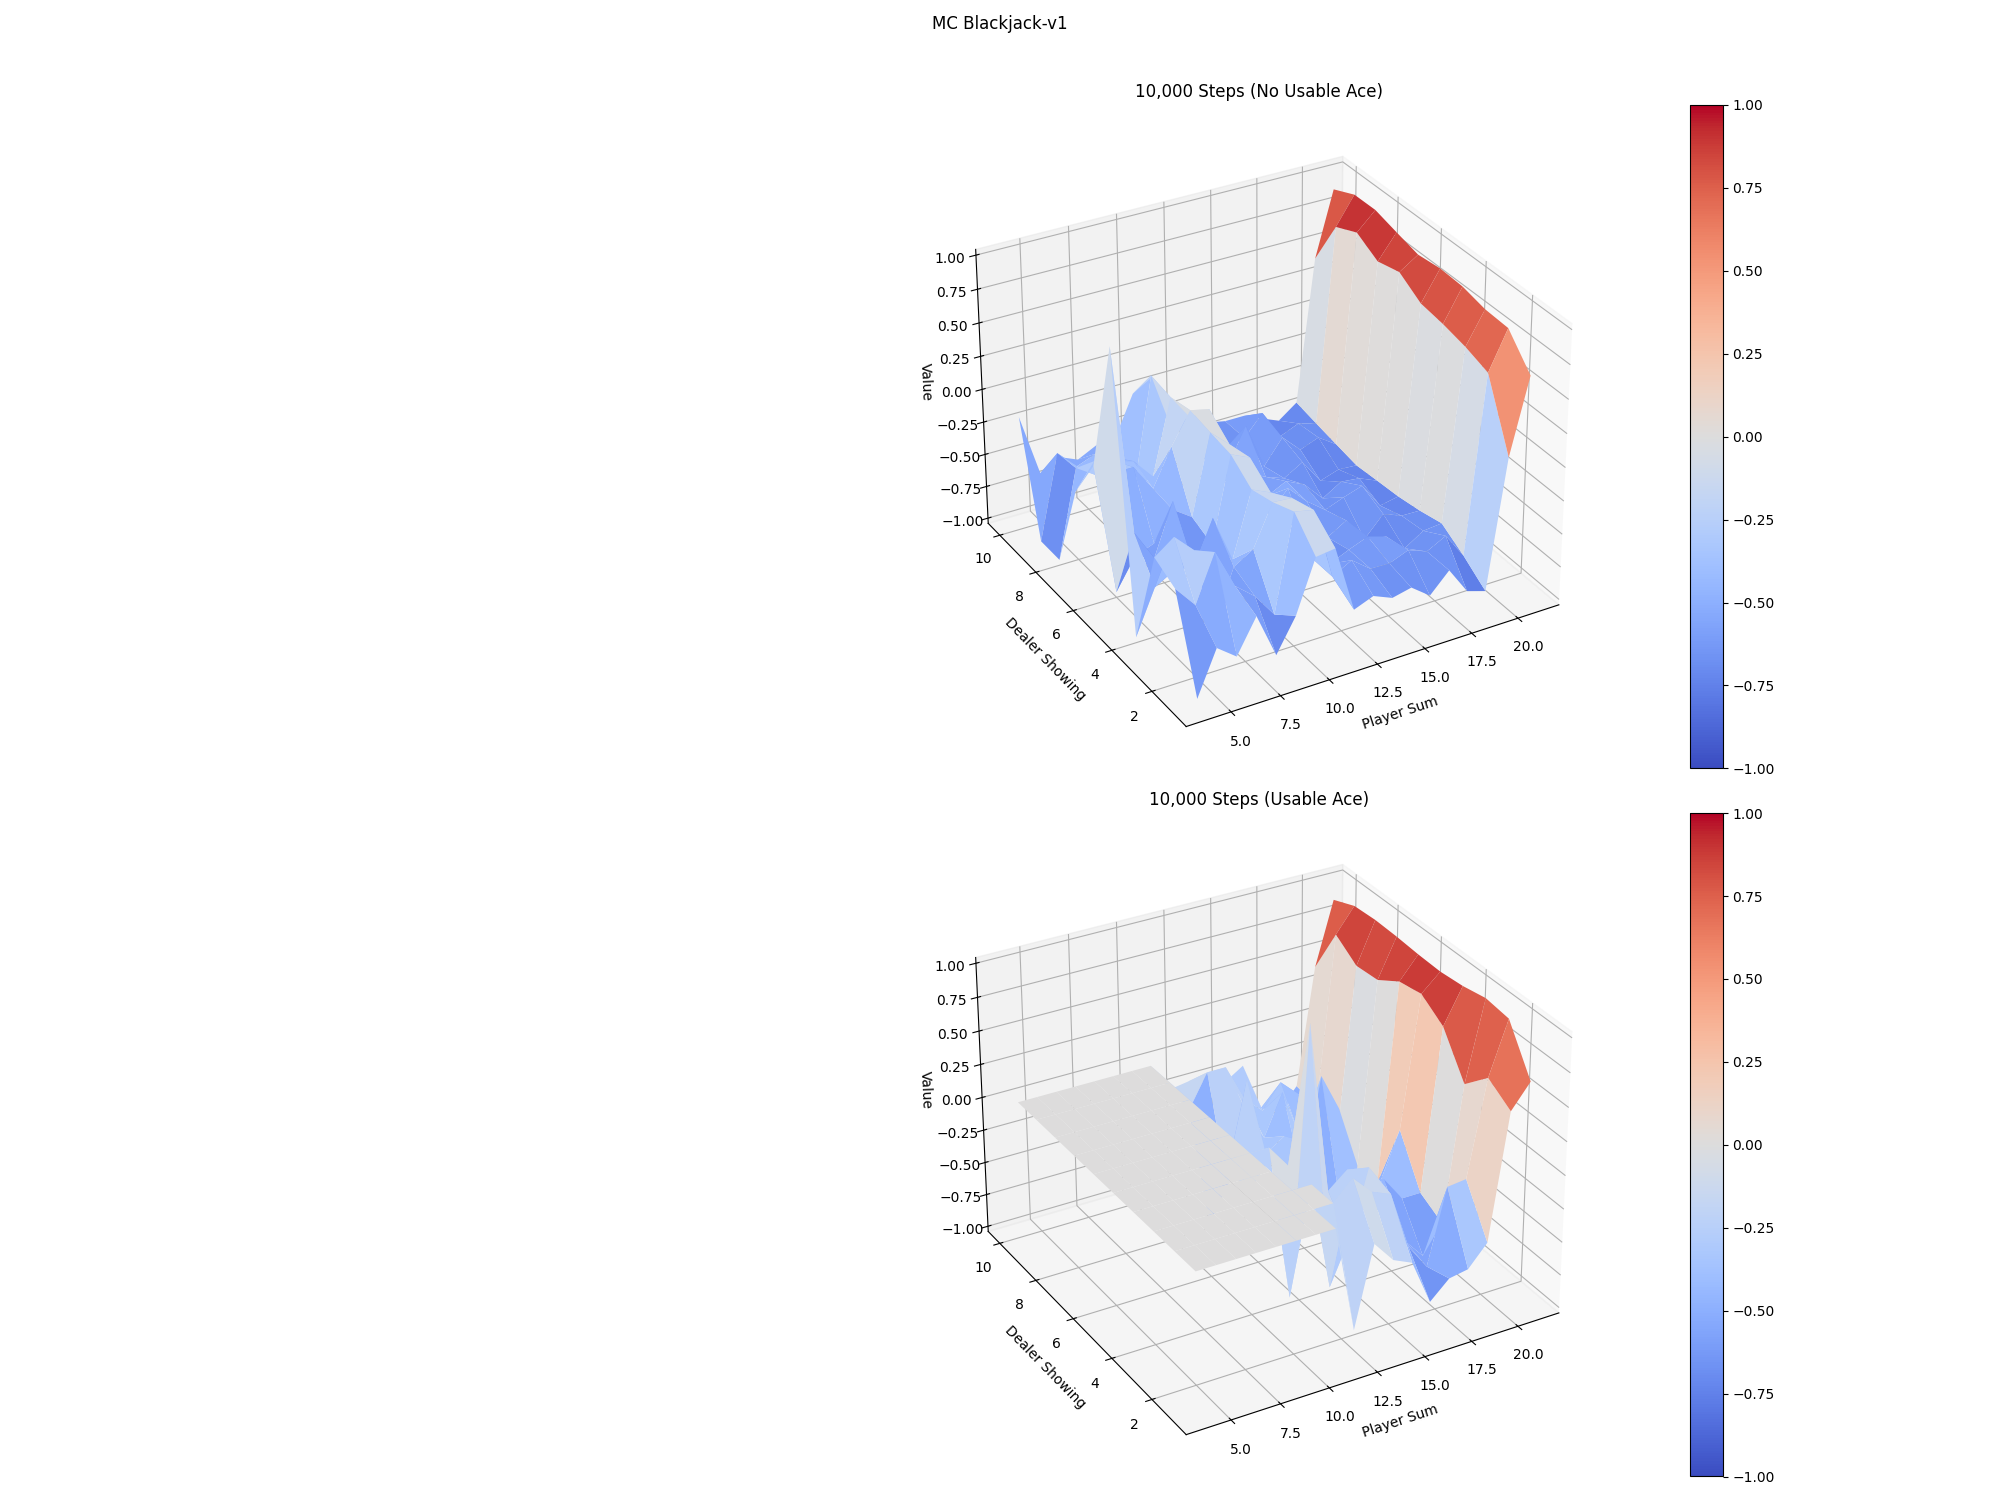
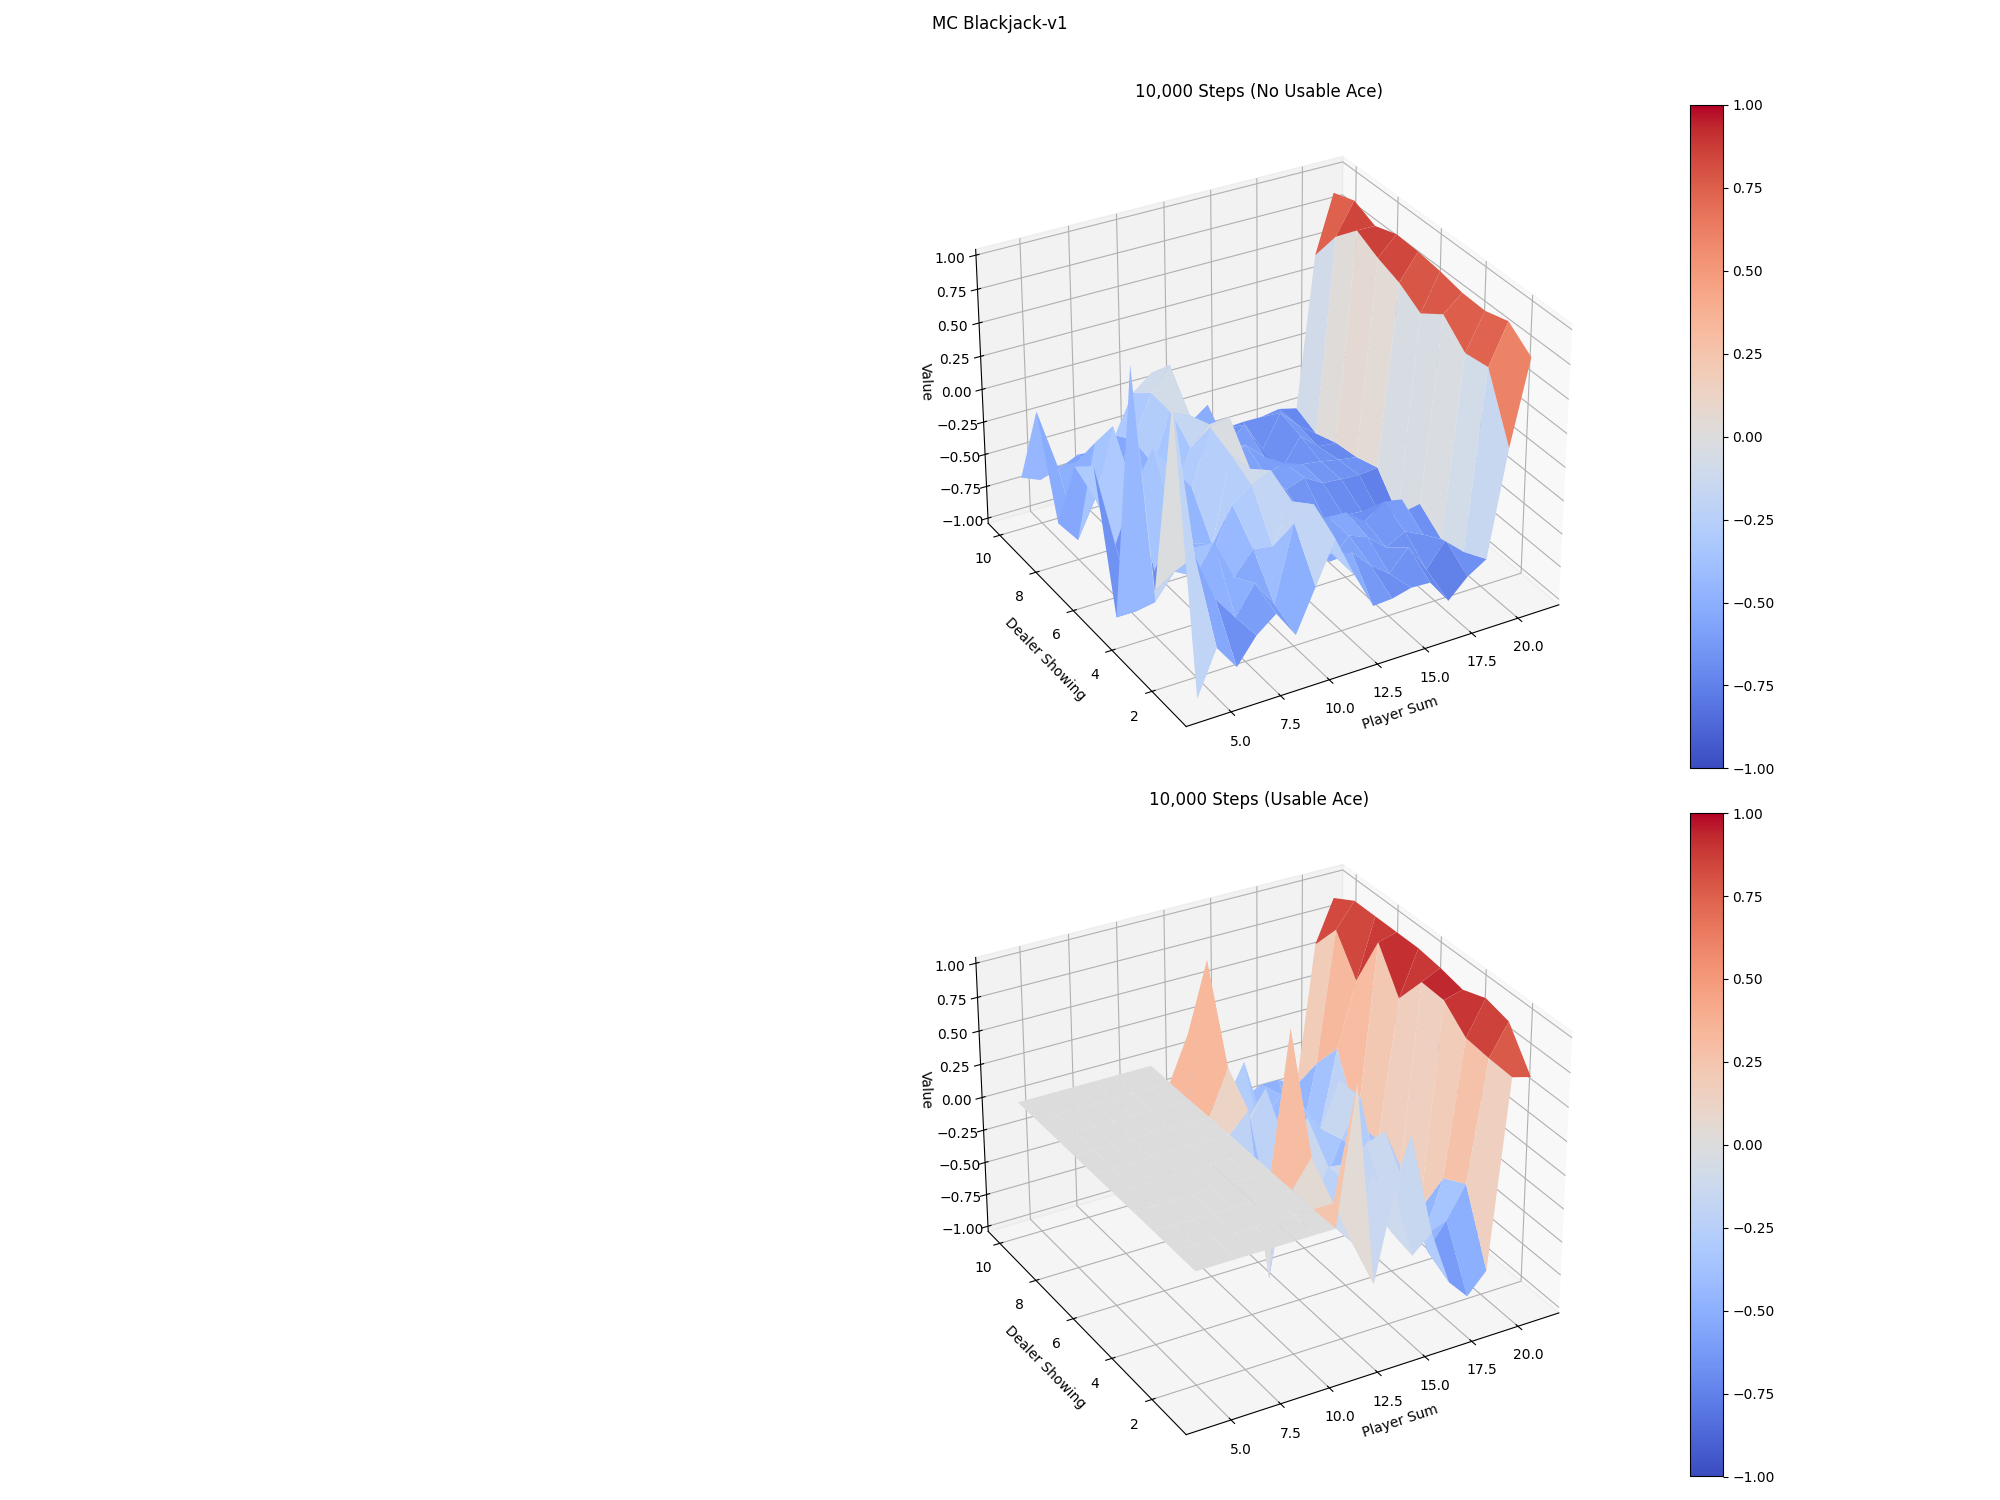
implemented sarsa and q learning

diff --git a/Lab2-MFRL/lab2.py b/Lab2-MFRL/lab2.py
@@ -324,8 +324,8 @@ def mc_control_epsilon_greedy(
             obs = next_obs
 
         G = 0
-        for episode in ep_transitions:
-            obs, action, reward = episode
+        for transition in ep_transitions:
+            obs, action, reward = transition
             G = discount_factor * G + reward
             state_action = (obs, action)
             if state_action not in visited:
@@ -372,11 +372,38 @@ def SARSA(env, num_episodes, discount_factor=1.0, epsilon=0.1, alpha=0.5, print_
         episode_lengths=np.zeros(num_episodes), episode_rewards=np.zeros(num_episodes)
     )
 
-    # Update statistics after getting a reward - use within loop, call the following lines
-    # stats.episode_rewards[i_episode] += reward
-    # stats.episode_lengths[i_episode] = t
+    for ep in range(num_episodes):
+        obs, _ = env.reset()
+        action_probs = policy(obs)
+        action = np.random.choice(env.action_space.n, p=action_probs)
 
-    raise NotImplementedError
+        for t in itertools.count():
+            next_obs, reward, terminated, truncated, _ = env.step(action)
+            done = terminated or truncated
+
+            next_action_probs = policy(next_obs)
+            next_action = np.random.choice(env.action_space.n, p=next_action_probs)
+            td_target = reward + discount_factor * Q[next_obs][next_action]
+            td_delta = td_target - Q[obs][action]
+            Q[obs][action] += alpha * td_delta
+
+            stats.episode_rewards[ep] += reward
+            stats.episode_lengths[ep] += 1
+
+            if done:
+                break
+
+            obs = next_obs
+            action = next_action
+
+        if print_ and ep % 100 == 0:
+            print("\rEpisode {}/{}.".format(ep, num_episodes), end="")
+            sys.stdout.flush()
+
+    if print_:
+        print()
+
+    return Q, stats
 
 
 def q_learning(
@@ -411,9 +438,36 @@ def q_learning(
         episode_lengths=np.zeros(num_episodes), episode_rewards=np.zeros(num_episodes)
     )
 
-    # Update statistics after getting a reward - use within loop, call the following lines
-    # stats.episode_rewards[i_episode] += reward
-    # stats.episode_lengths[i_episode] = t
+    for ep in range(num_episodes):
+        obs, _ = env.reset()
+
+        for t in itertools.count():
+            action_probs = policy(obs)
+            action = np.random.choice(env.action_space.n, p=action_probs)
+            next_obs, reward, terminated, truncated, _ = env.step(action)
+            done = terminated or truncated
+
+            best_next_action = np.argmax(Q[next_obs])
+            td_target = reward + discount_factor * Q[next_obs][best_next_action]
+            td_delta = td_target - Q[obs][action]
+            Q[obs][action] += alpha * td_delta
+
+            stats.episode_rewards[ep] += reward
+            stats.episode_lengths[ep] += 1
+
+            if done:
+                break
+
+            obs = next_obs
+
+        if print_ and ep % 100 == 0:
+            print("\rEpisode {}/{}.".format(ep, num_episodes), end="")
+            sys.stdout.flush()
+
+    if print_:
+        print()
+
+    return Q, stats
 
 
 def run_mc():
@@ -490,7 +544,7 @@ def run_td():
     )
     td_plot_episode_stats(stats_sarsa, "SARSA")
     td_plot_values(sarsa_q_values, "SARSA")
-    print("")
+    print()
 
     print("Q learning\n")
     ql_q_values, stats_q_learning = q_learning(
@@ -503,7 +557,7 @@ def run_td():
     )
     td_plot_episode_stats(stats_q_learning, "Q learning")
     td_plot_values(ql_q_values, "Q learning")
-    print("")
+    print()
 
 
 if __name__ == "__main__":
